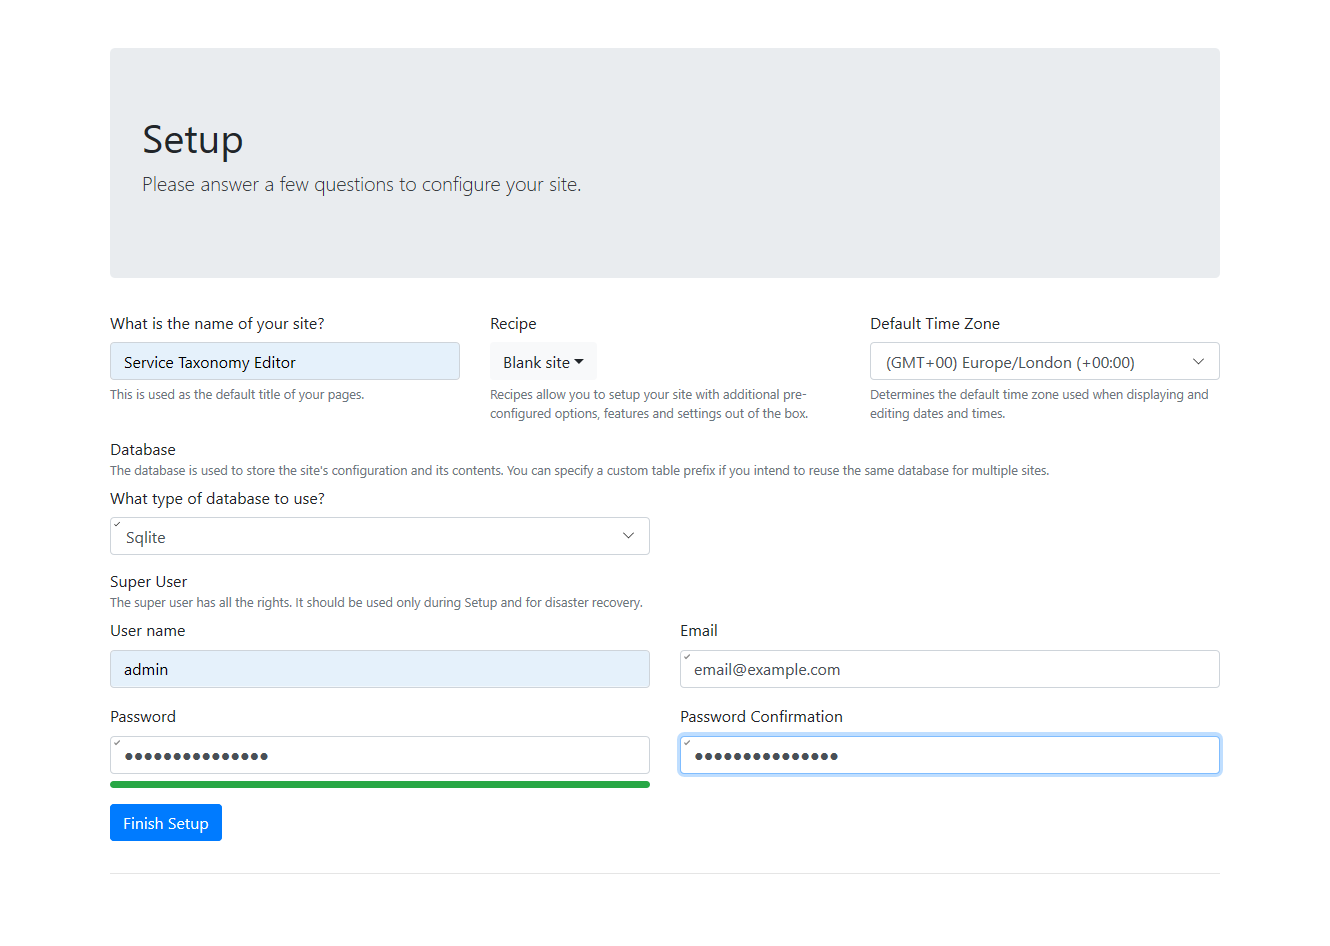
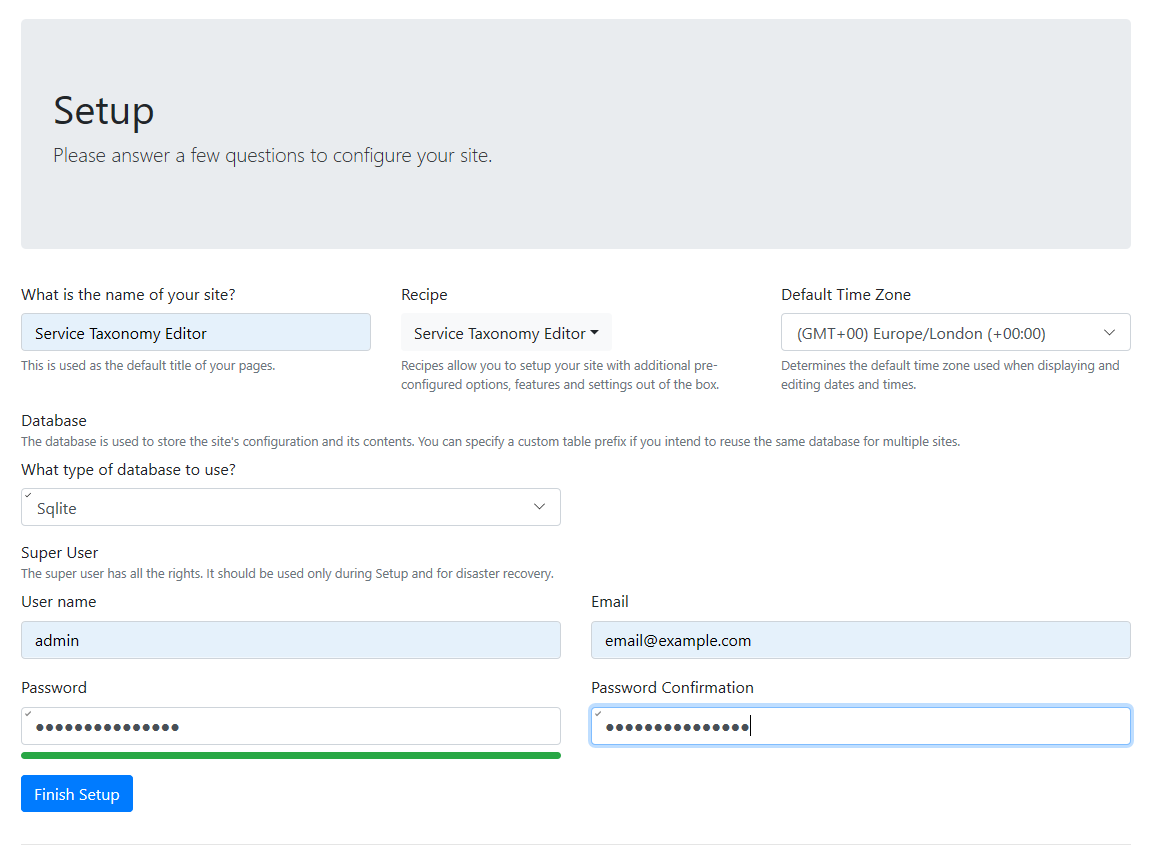
update readme with new recipe-based (partial) auto setup

diff --git a/README.md b/README.md
@@ -39,7 +39,11 @@ Add 'admin' to the end of the address url (https://localhost:44346/admin) to bri
 
 On subsequent launches, use the same admin url. (Again, this will become unnecessary.)
 
-Currently, you'll need to enable some features. Expand 'Configuration' and select 'Features'. Enable the following features
+#### Manually Configure Website
+
+If you use the provided recipe to initialise the site (as detailed above), there is no need to manually configure the site. This section is for informational purposes only.
+
+Firstly, you'll need to enable some features. Expand 'Configuration' and select 'Features'. Enable the following features
 * Neo4j Graph Sync (Graph category)
 * Workflows (Workflows category)
 
